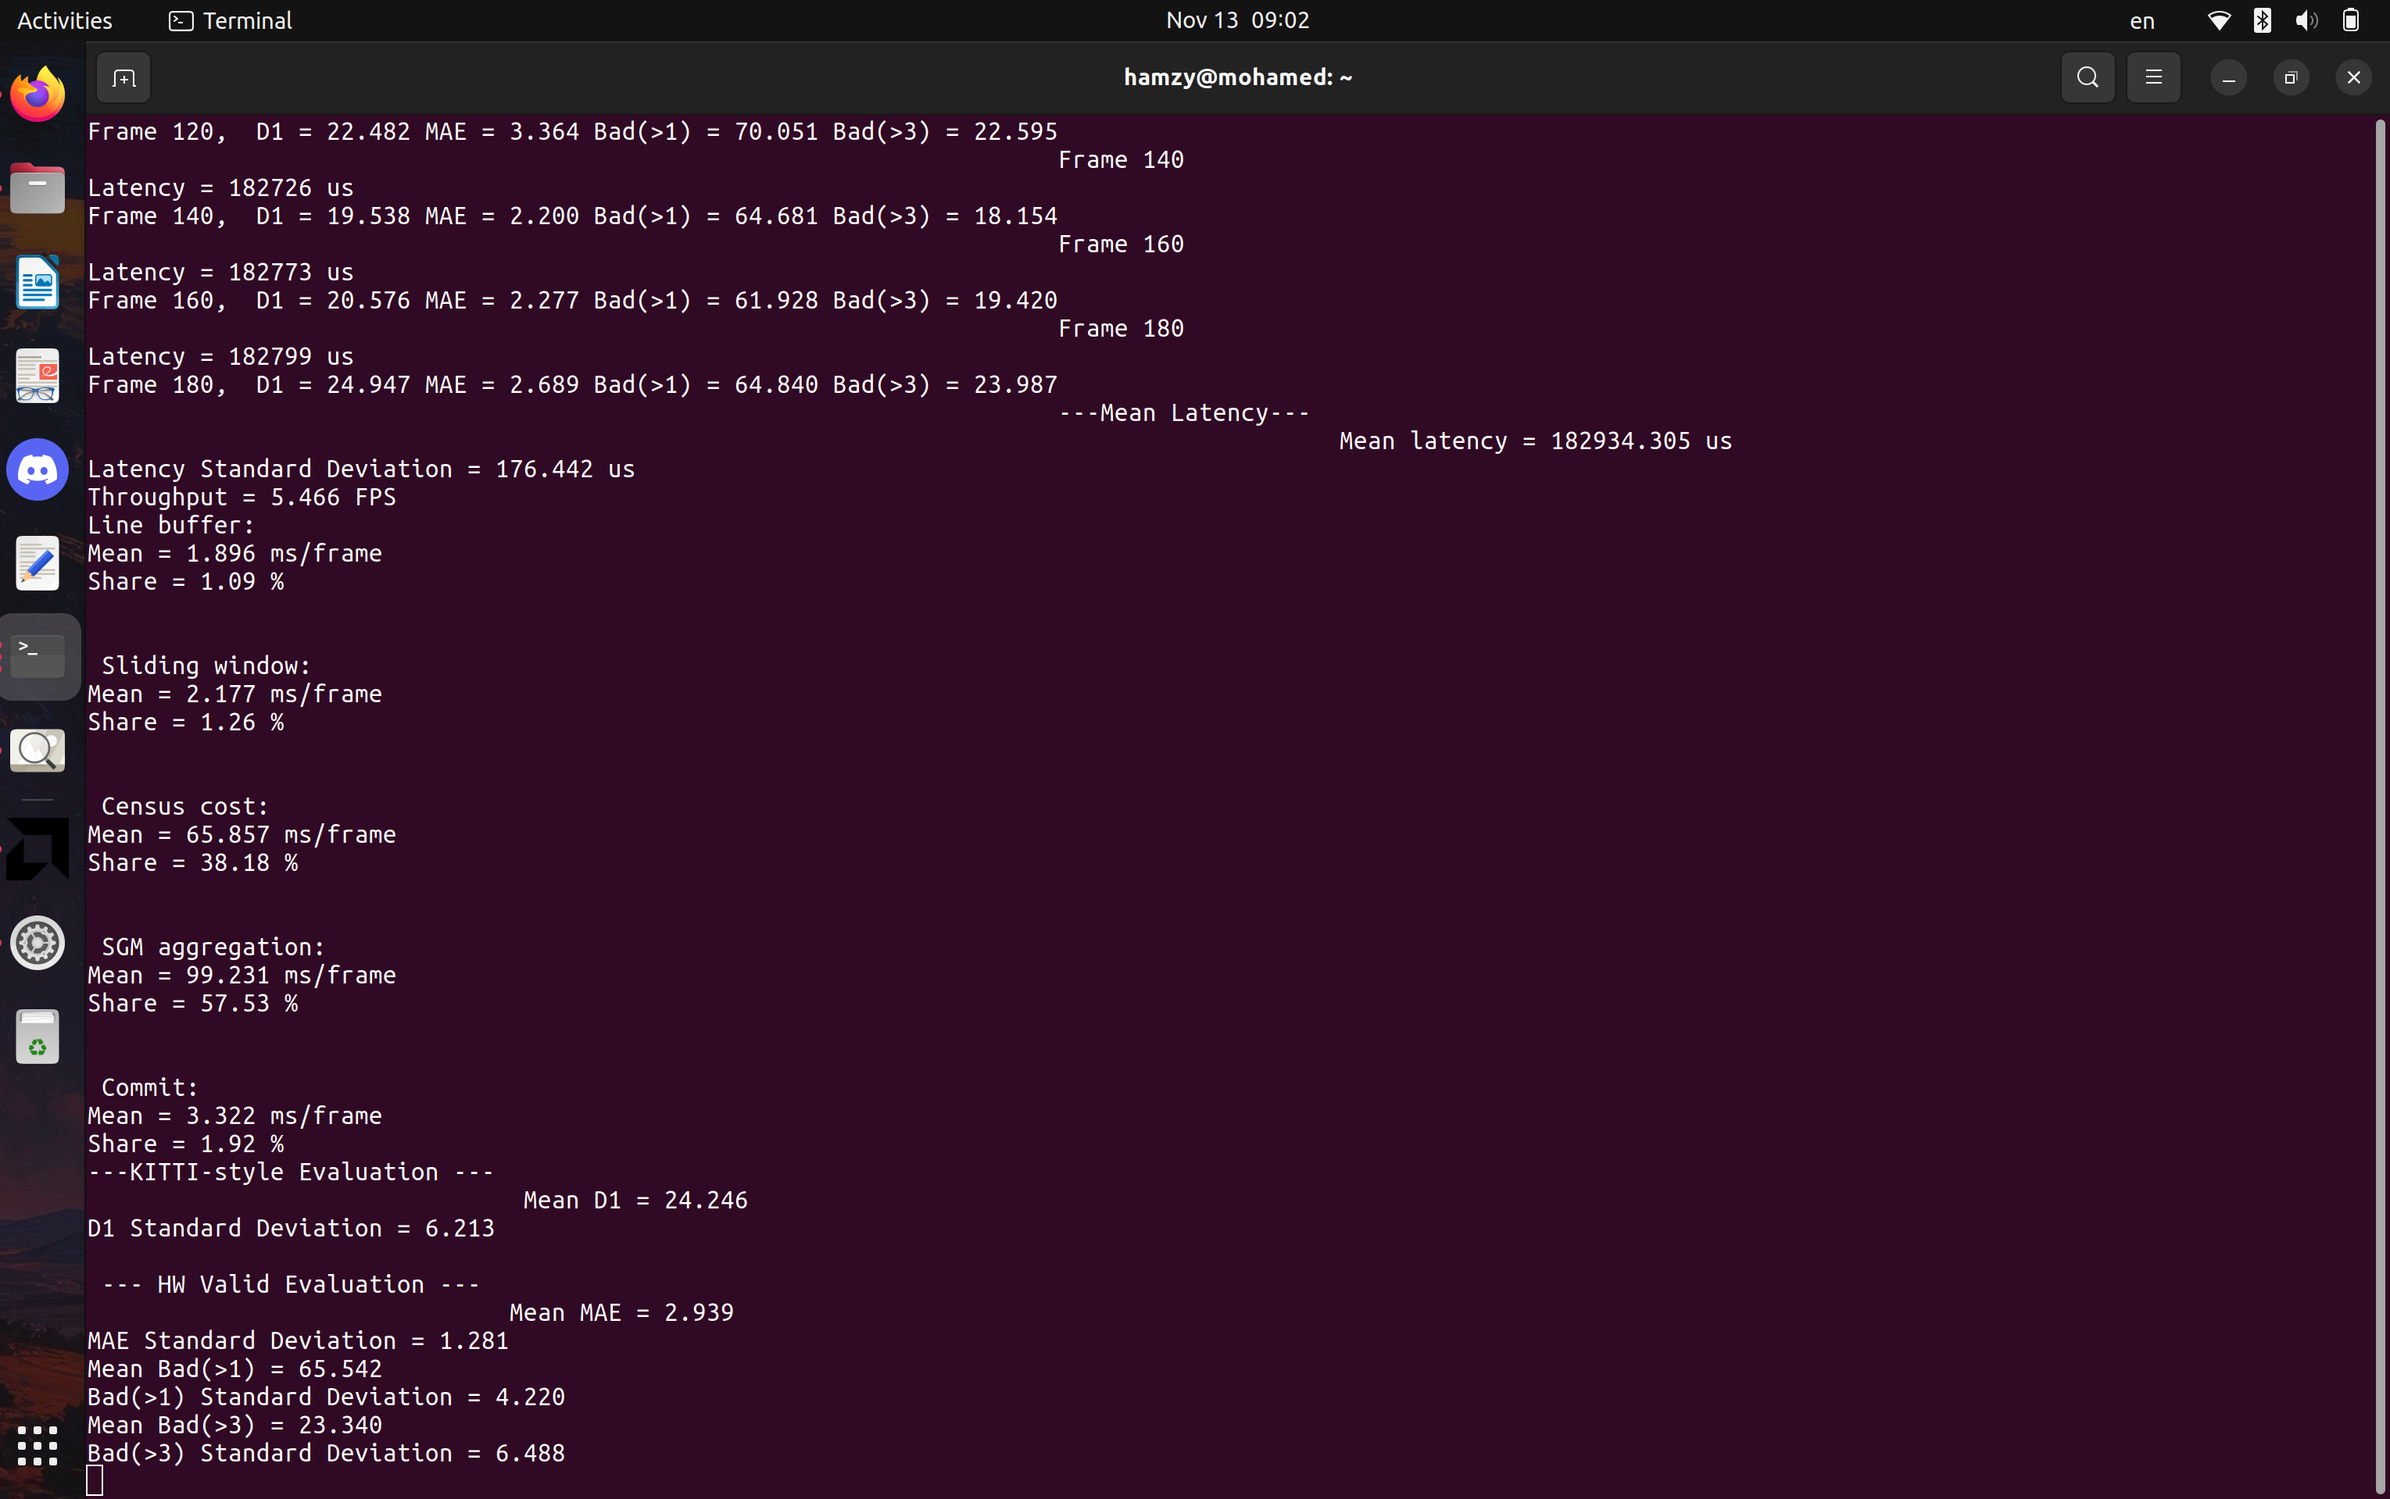
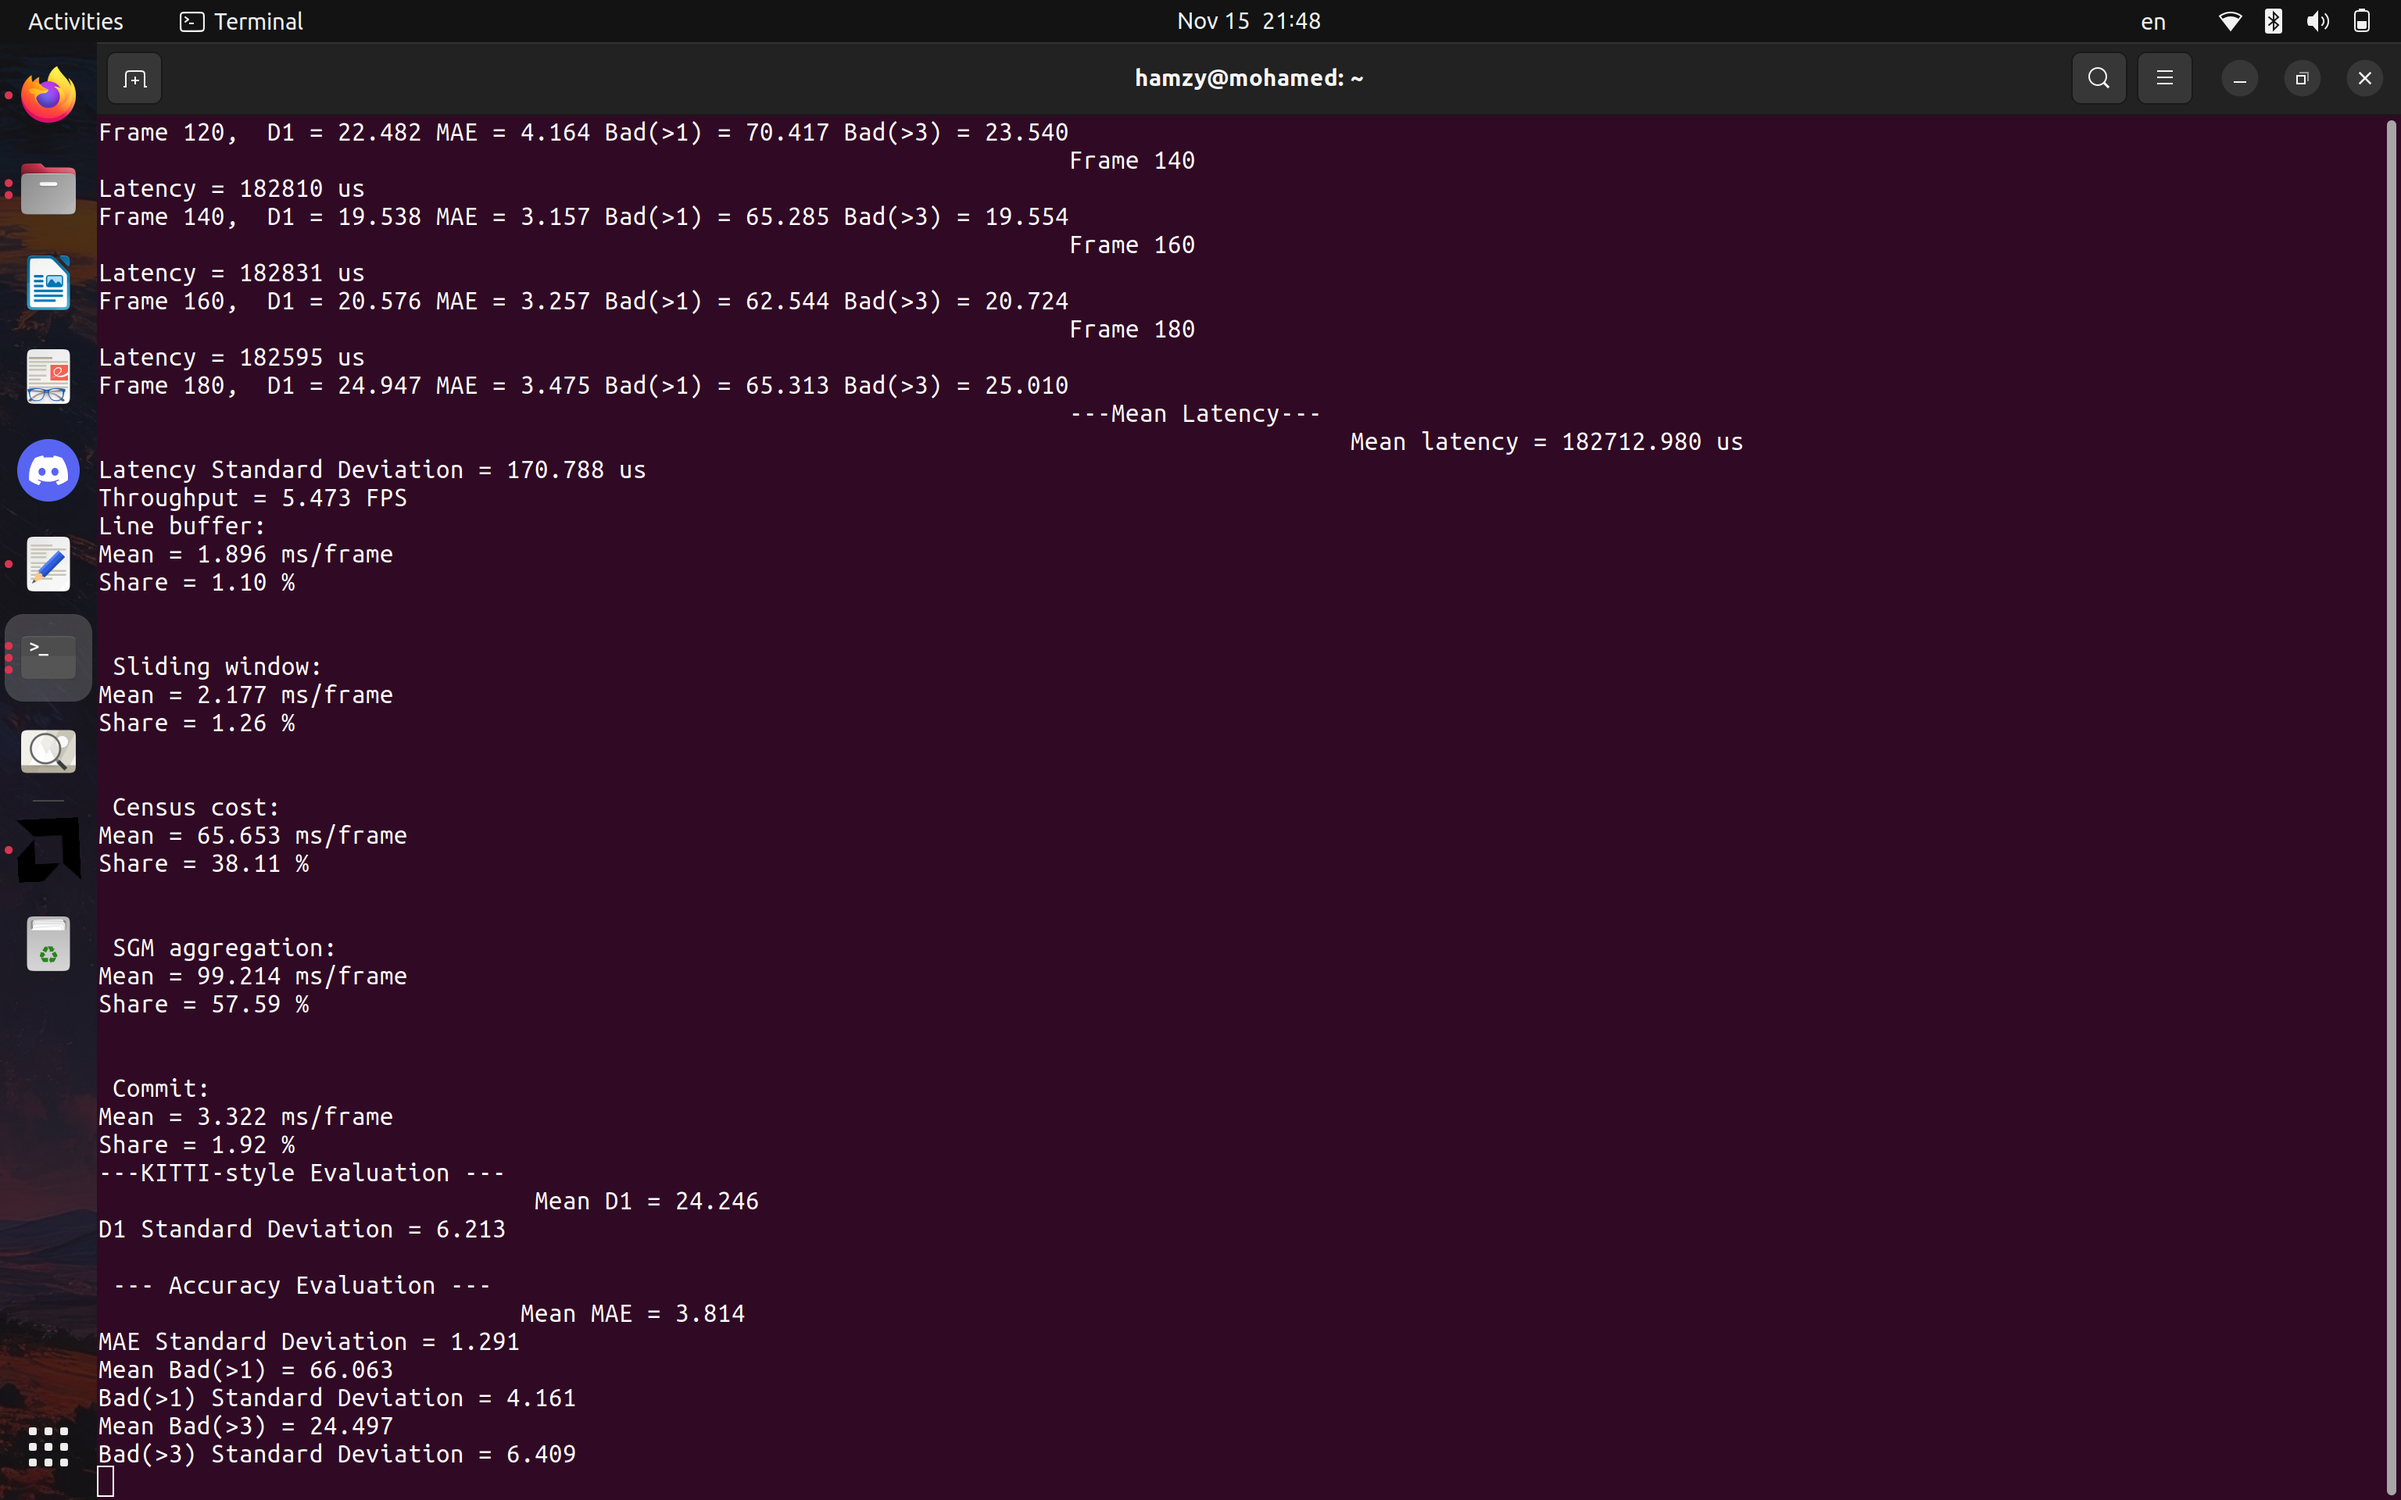
main: update evaluation criteria to include all valid gt pixels

diff --git a/ps_profile/main.cpp b/ps_profile/main.cpp
@@ -15,12 +15,10 @@ int main()
 
 	/* Evaluation metrics */
 	int kitti_valid_frame = 0;
-	int hw_valid_frame = 0;
 
 	double total_kitti_d1_error = 0;
 	double total_mae = 0;
 	double total_Bad1_error = 0, total_Bad3_error = 0;
-	int invalid_selected_count = 0;
 
 	uint64_t total_latency = 0;
 
@@ -35,15 +33,6 @@ int main()
 	static double bad1_per_frame[NUM_FRAMES];
 	static double bad3_per_frame[NUM_FRAMES];
 	static uint32_t latency_per_frame[NUM_FRAMES];
-
-
-
-	const int cx = WIN >> 1;
-	const int cy = WIN >> 1;
-
-	const int valid_r_min = WIN - 1 - cy;
-	const int valid_r_max = IMG_H - 1 - cy;
-	const int valid_c_max = IMG_W - cx;
 
 	xil_printf("Starting Variant A - PS SGM evaluation... \r\n");
 
@@ -62,11 +51,13 @@ int main()
 		sgm_sw_core(left_frames[i], right_frames[i], disp_out);
 		XTime_GetTime(&t1);
 
+#if PROFILE_STAGES
 		total_linebuffer += t_linebuffer;
 		total_slidingwindow += t_slidingwindow;
 		total_census += t_computecensus;
 		total_aggregate += t_aggregatecost;
 		total_commit += t_commitcosts;
+#endif
 
 		uint64_t cycles = uint64_t(t1 - t0);
 	    uint32_t latency_us = (uint32_t)((cycles * 1000000ULL) / COUNTS_PER_SECOND);
@@ -92,8 +83,6 @@ int main()
 		int kitti_valid_count = 0;
 		int kitti_invalid_count = 0;
 
-		int hw_valid_count = 0, hw_invalid_count = 0;
-
 		int bad1 = 0, bad3 = 0;
 		double sum_abs_err = 0.0;
 
@@ -103,9 +92,6 @@ int main()
 			{
 				float gt_disp = gt_frames[i][r][c];
 				float est_disp = disp_out[r][c];
-
-				if(r >= valid_r_min && est_disp > c)
-					++invalid_selected_count;
 
 				bool gt_valid = gt_disp > 0.0f;
 				if(!gt_valid)
@@ -117,6 +103,10 @@ int main()
 				++kitti_valid_count;
 				float err = (std::abs(est_disp - gt_disp)) / scale_x;
 
+		    	sum_abs_err += err;
+		    	if (err > 1.0f) bad1++;
+		    	if (err > 3.0f) bad3++;
+
 				/* Kitt-style D1 */
 				bool abs_error_gt3 = err > 3.0f;
 				bool rel_error_gt5 = ((err / (gt_disp/scale_x)) > 0.05f);
@@ -125,25 +115,6 @@ int main()
 				{
 					++kitti_d1_err;
 				}
-
-		        bool roi_valid = (r >= valid_r_min) && (r <= valid_r_max)
-		        		&& (c < valid_c_max);
-
-		        bool disp_range_valid = (gt_disp < DISP) && (gt_disp <= c);
-
-		        bool hw_valid = roi_valid && disp_range_valid;
-
-		    	if(!hw_valid)
-		    	{
-		    		++hw_invalid_count;
-		    	}
-		    	else
-		    	{
-			    	++hw_valid_count;
-			    	sum_abs_err += err;
-			    	if (err > 1.0f) bad1++;
-			    	if (err > 3.0f) bad3++;
-		    	}
 		    }
 		}
 
@@ -157,28 +128,19 @@ int main()
         	current_kitti_error = (100.0 * kitti_d1_err / kitti_valid_count);
         	++kitti_valid_frame;
         	total_kitti_d1_error += current_kitti_error;
-        }
-        else
-        {
-            xil_printf( "ERROR: No KITTI-valid GT pixels at frame %d\n", i);
-            return 5;
-        }
 
-        if(hw_valid_count > 0)
-        {
-        	++hw_valid_frame;
-        	current_mae = (sum_abs_err / hw_valid_count);
-			current_bad1 = (100.0 * bad1 / hw_valid_count);
-			current_bad3= (100.0 * bad3 / hw_valid_count);
+        	current_mae = (sum_abs_err / kitti_valid_count);
+			current_bad1 = (100.0 * bad1 / kitti_valid_count);
+			current_bad3= (100.0 * bad3 / kitti_valid_count);
 
 			total_mae += current_mae;
 			total_Bad1_error += current_bad1;
 			total_Bad3_error +=current_bad3;
         }
-        if (hw_valid_count == 0)
+        else
         {
-            xil_printf("ERROR: No HW-valid GT pixels for comparison at frame: %d\n", i);
-            return 6;
+            xil_printf( "ERROR: No KITTI-valid GT pixels at frame %d\n", i);
+            return 5;
         }
 
     	d1_per_frame[i] = current_kitti_error;
@@ -204,12 +166,6 @@ int main()
         {
         	xil_printf("ERROR: GT validity counts do not match image "
         			"size at frame: %d\n", i);
-        }
-
-        if((hw_invalid_count + hw_valid_count) != kitti_valid_count)
-        {
-        	xil_printf ("ERROR: HW-valid + HW-excluded counts do not match"
-        			" KITTI-valid count at frame: %d", i);
         }
 	}
 
@@ -344,17 +300,17 @@ int main()
     	xil_printf("D1 Standard Deviation = %u.%03u\r\n", std_d1_x1000/1000, std_d1_x1000%1000);
 	}
 
-	if(hw_valid_frame > 0)
+	if(kitti_valid_frame > 0)
 	{
-		xil_printf("\n --- HW Valid Evaluation --- \n ");
+		xil_printf("\n --- Accuracy Evaluation --- \n ");
 
-		double mean_mae = total_mae / hw_valid_frame;
+		double mean_mae = total_mae / kitti_valid_frame;
 		double mae_squared_diff_sum = 0.0;
 
-		double mean_bad1 = total_Bad1_error / hw_valid_frame;
+		double mean_bad1 = total_Bad1_error / kitti_valid_frame;
 		double bad1_squared_diff_sum = 0.0;
 
-		double mean_bad3 = total_Bad3_error / hw_valid_frame;
+		double mean_bad3 = total_Bad3_error / kitti_valid_frame;
 		double bad3_squared_diff_sum = 0.0;
 
 		for(int i = 0; i < NUM_FRAMES; ++i)
@@ -370,9 +326,9 @@ int main()
 			double bad3_diff = bad3_per_frame[i] - mean_bad3;
 			bad3_squared_diff_sum += bad3_diff * bad3_diff;
 		}
-		double std_mae = std::sqrt(mae_squared_diff_sum / hw_valid_frame);
-		double std_bad1 = std::sqrt(bad1_squared_diff_sum / hw_valid_frame);
-		double std_bad3 = std::sqrt(bad3_squared_diff_sum / hw_valid_frame);
+		double std_mae = std::sqrt(mae_squared_diff_sum / kitti_valid_frame);
+		double std_bad1 = std::sqrt(bad1_squared_diff_sum / kitti_valid_frame);
+		double std_bad3 = std::sqrt(bad3_squared_diff_sum / kitti_valid_frame);
 
         unsigned int mean_mae_x1000  = (unsigned int)((mean_mae * 1000.0));
         unsigned int std_mae_x1000  = (unsigned int)((std_mae * 1000.0));
@@ -392,14 +348,5 @@ int main()
     	xil_printf("Mean Bad(>3) = %u.%03u\r\n", mean_bad3_x1000/1000, mean_bad3_x1000%1000);
     	xil_printf("Bad(>3) Standard Deviation = %u.%03u\r\n", std_bad3_x1000/1000, std_bad3_x1000%1000);
 	}
-
-
-
-
-
-
-
-
-
     while(1);
 }
